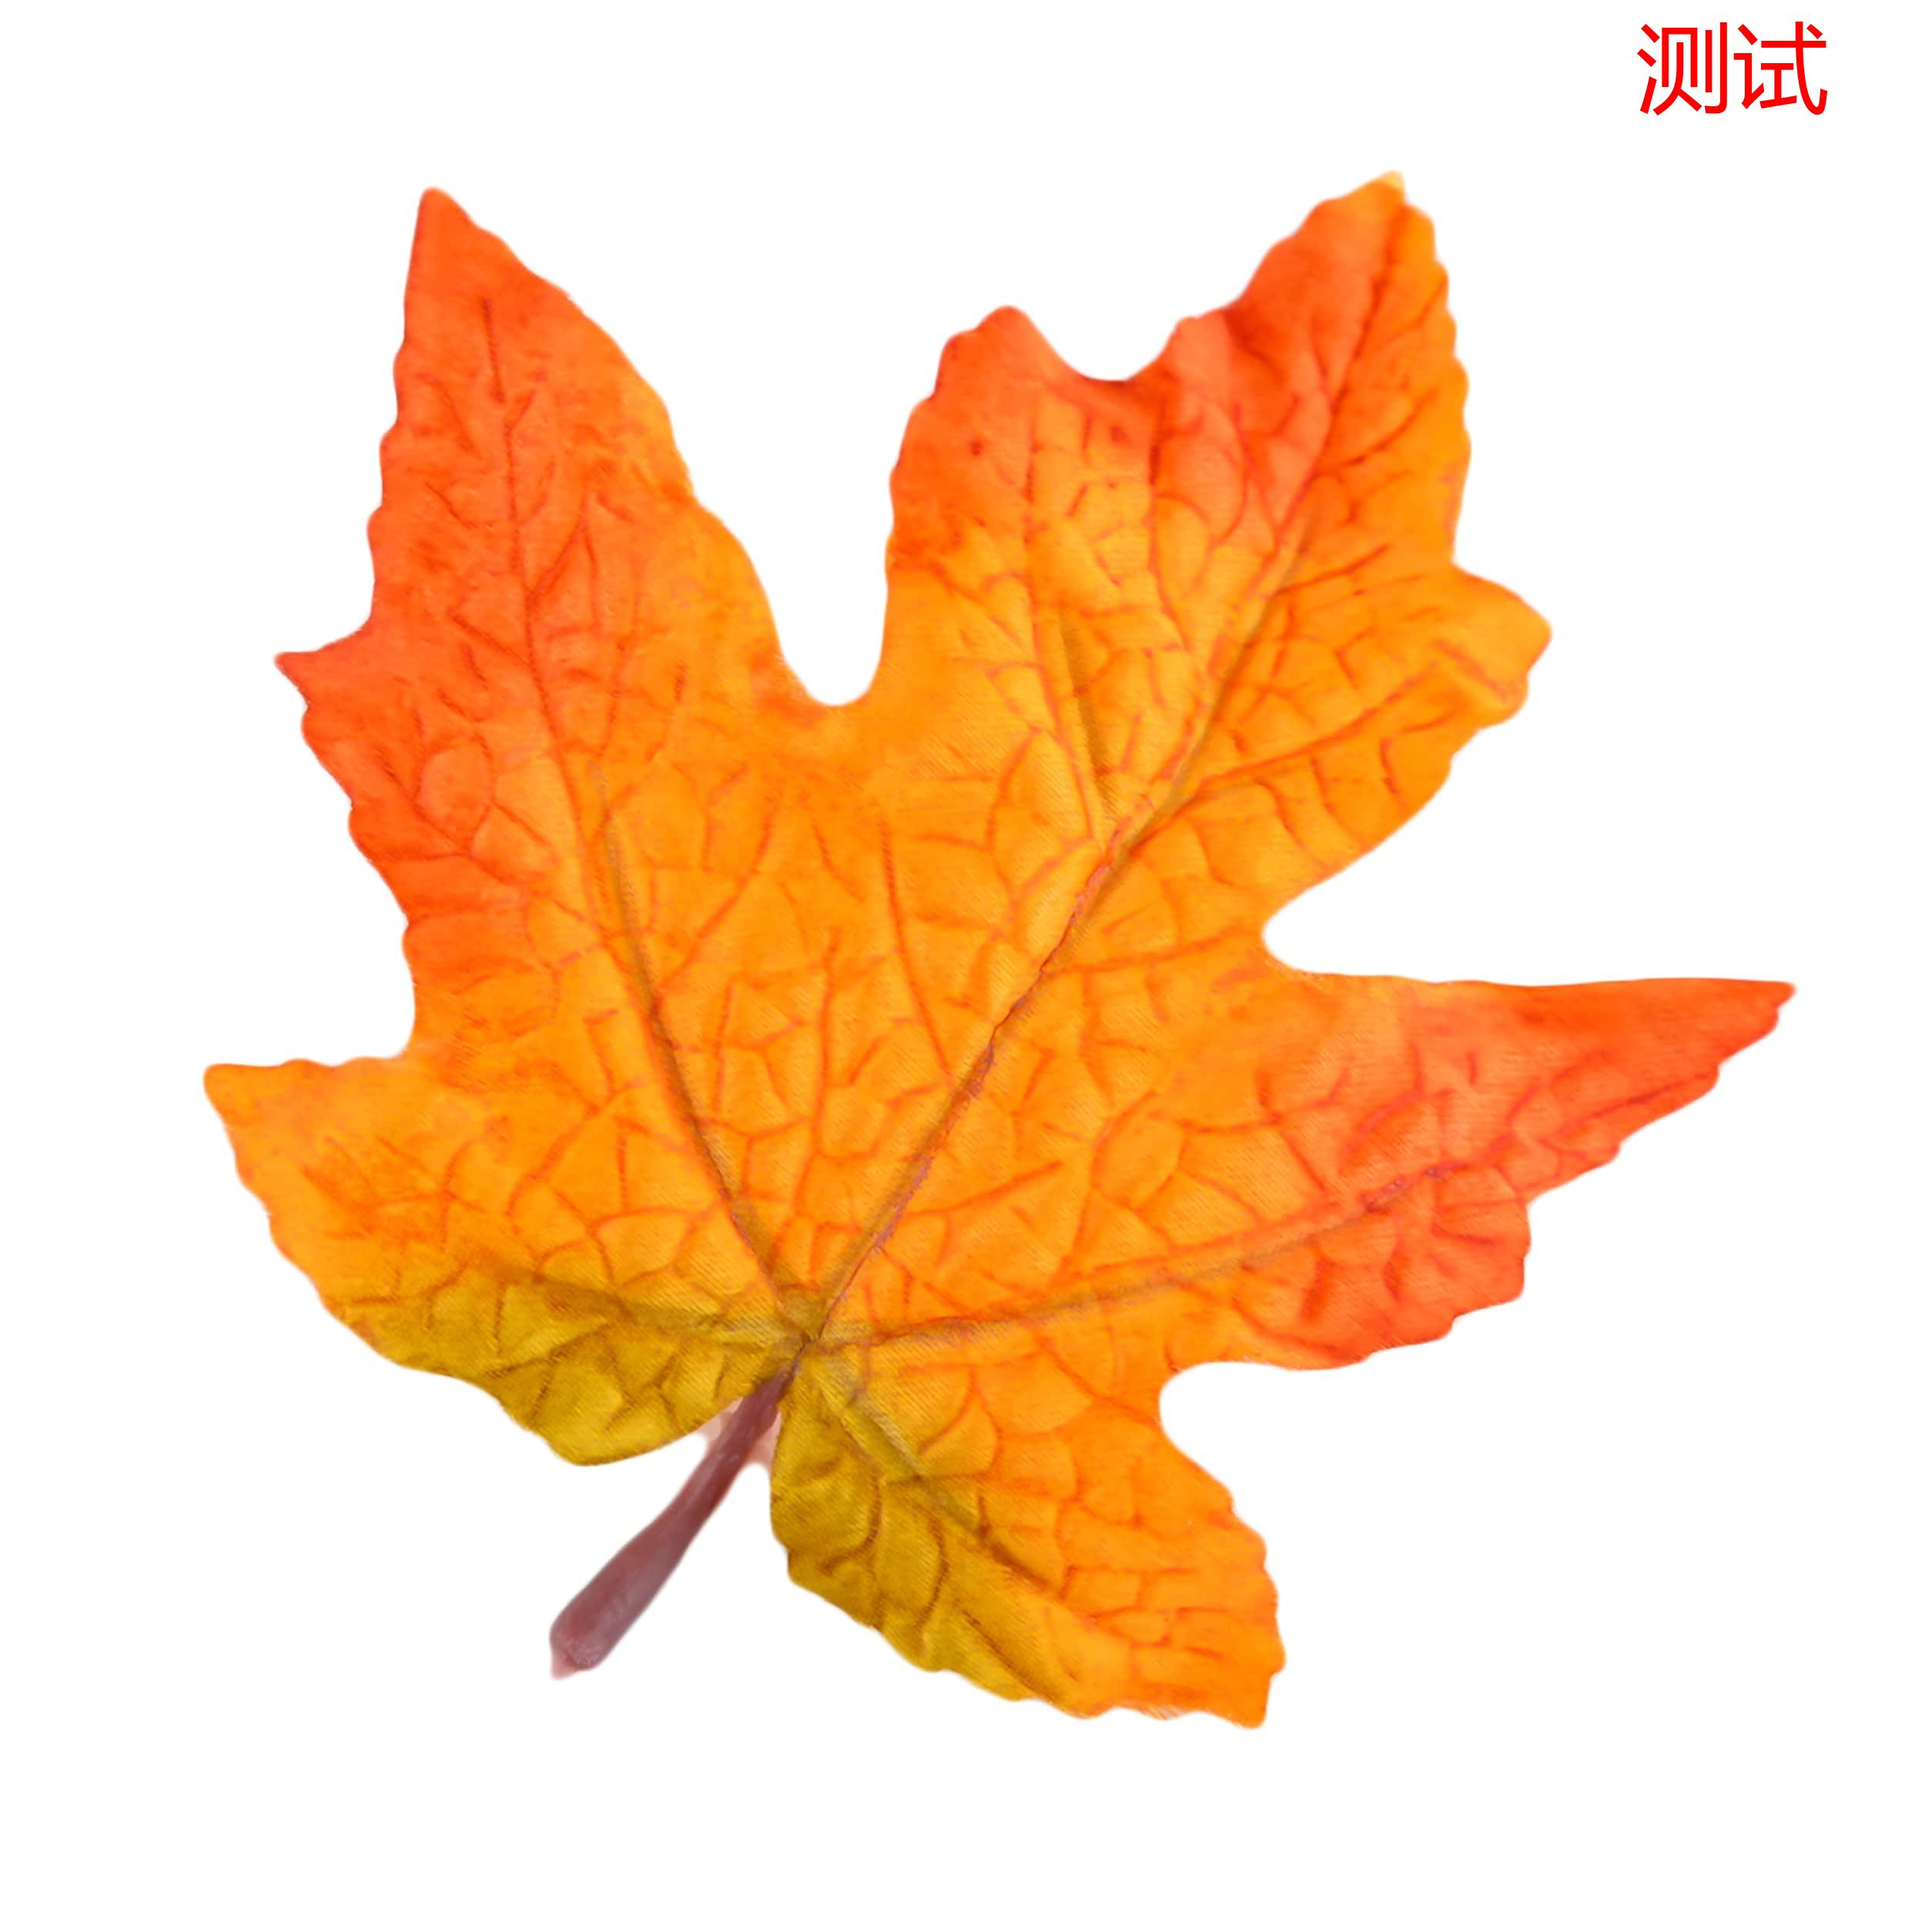
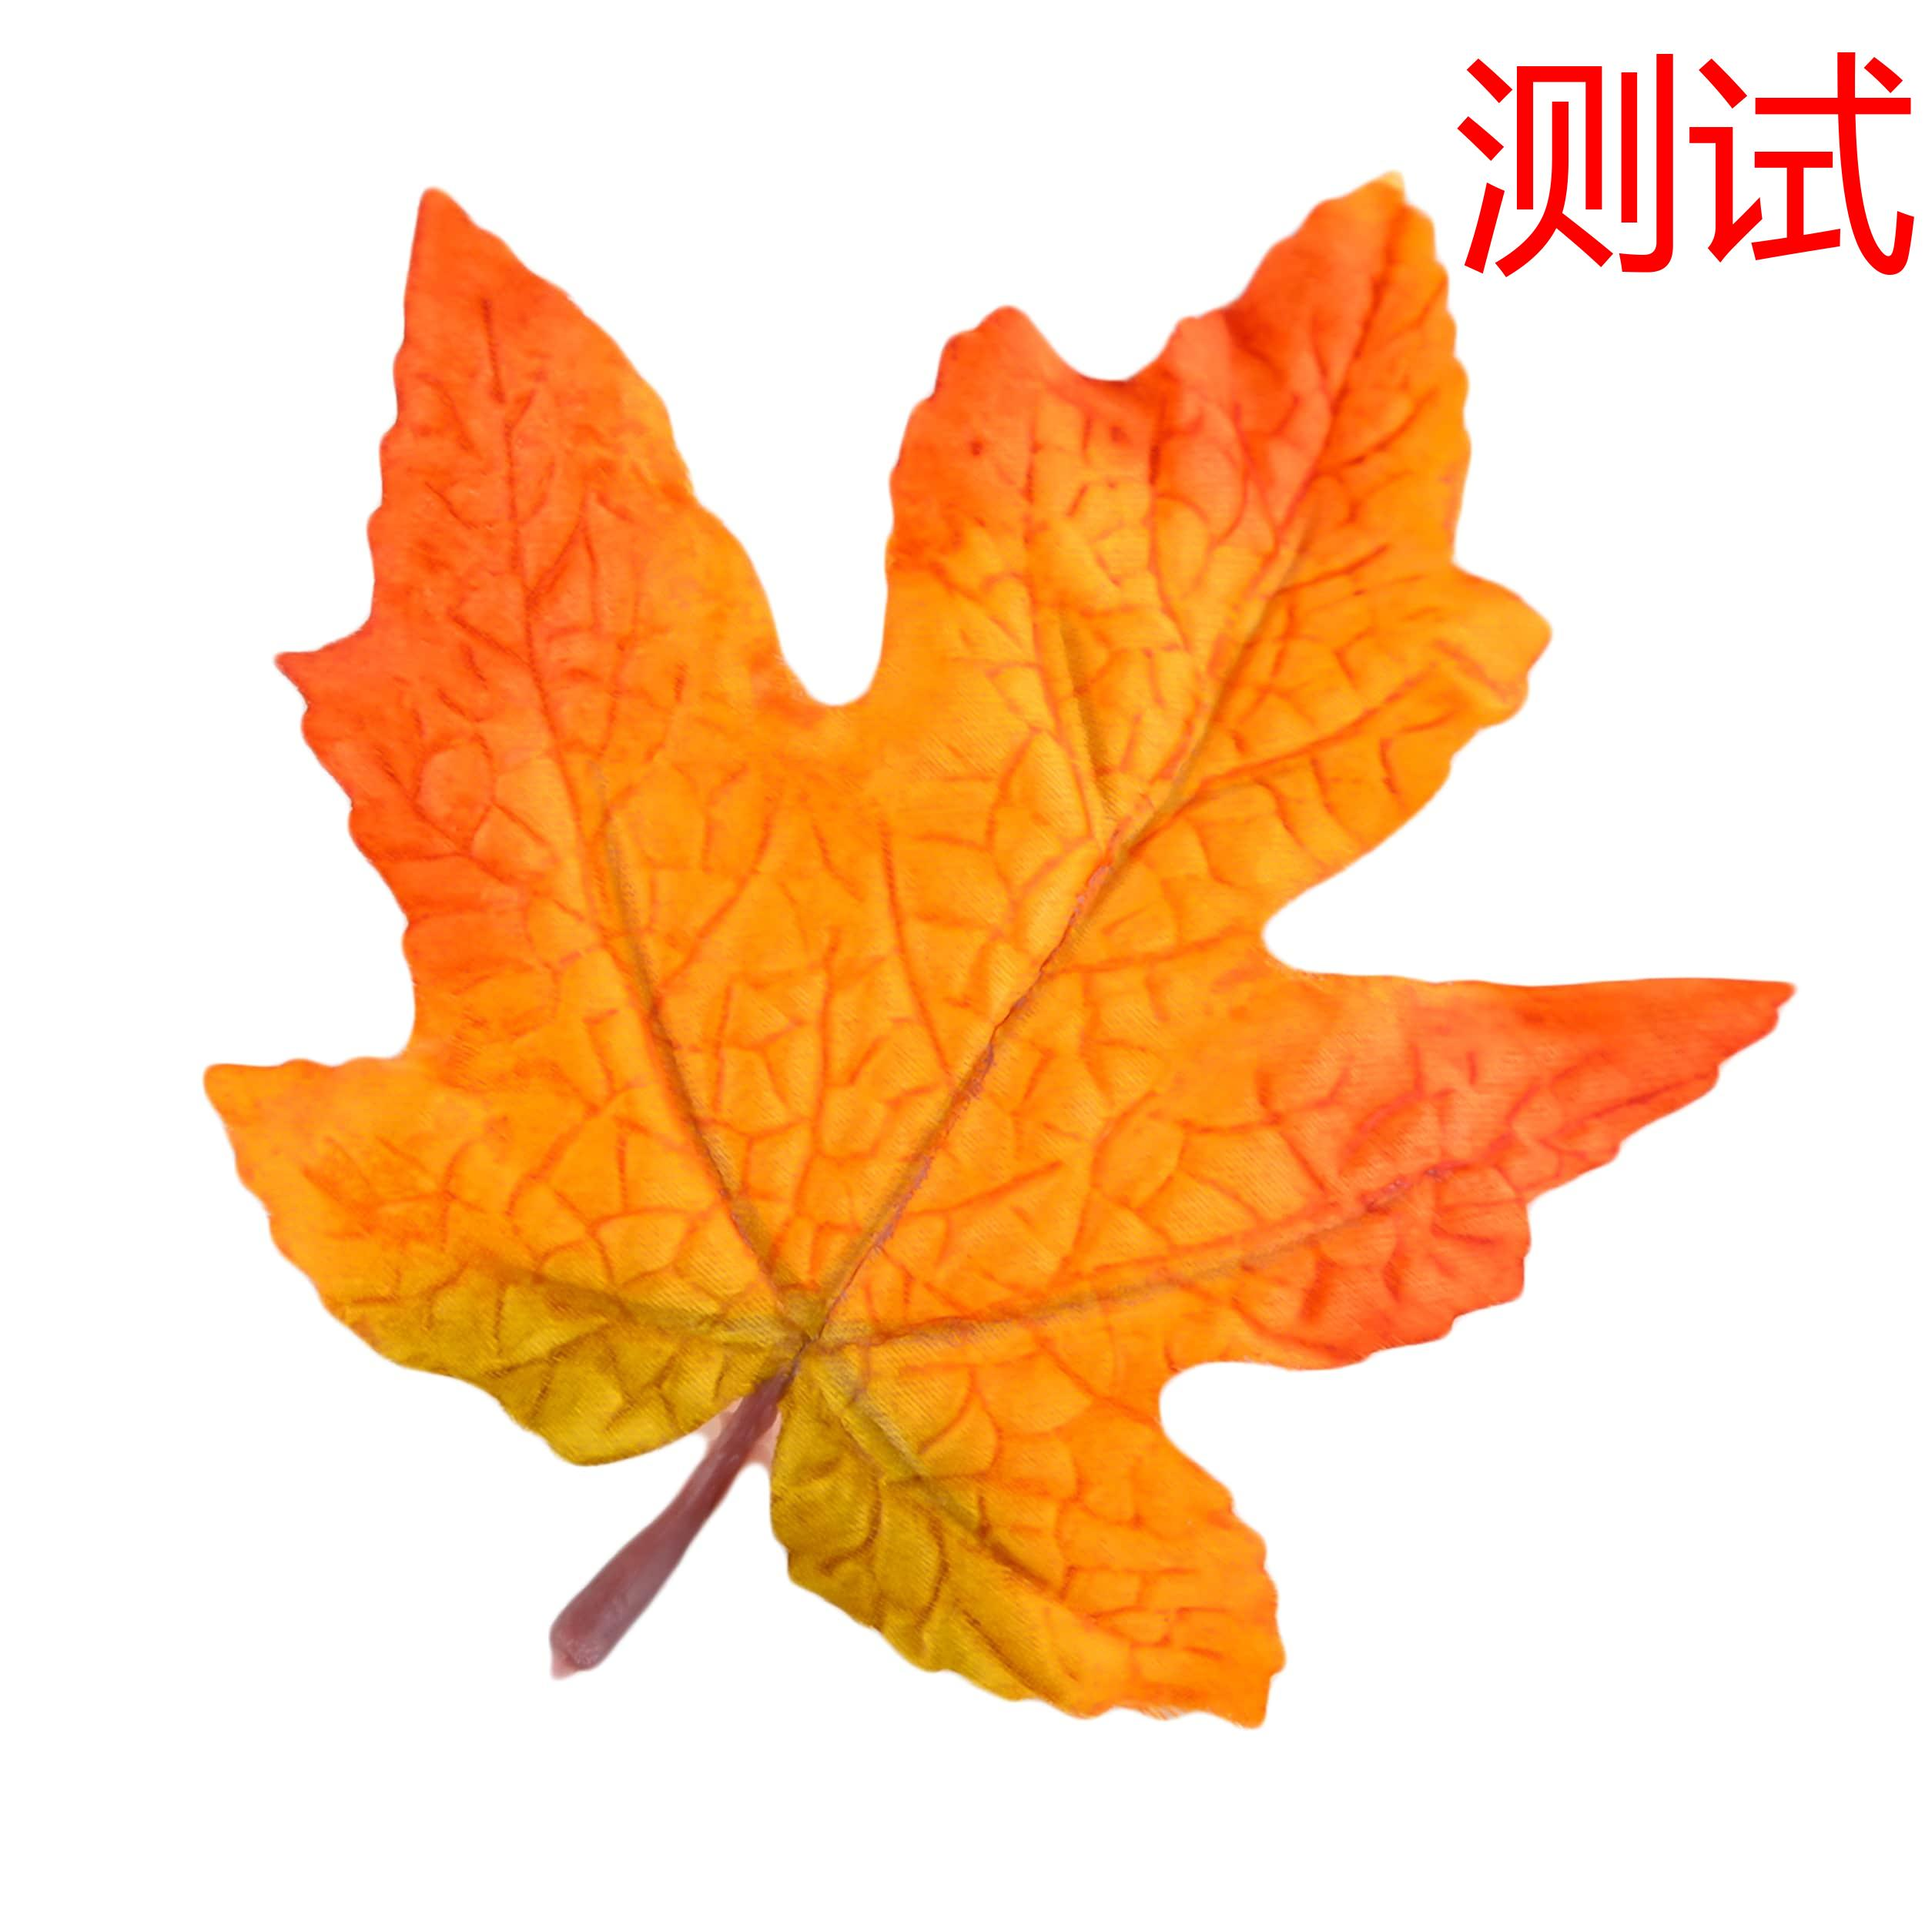
feat: demo00 添加文件格式过滤、输入字体大小

Changed region(s): [[0.7488, 0.0, 0.9984, 0.156]]

diff --git a/python_showmethecode/demo00/main.py b/python_showmethecode/demo00/main.py
@@ -16,13 +16,15 @@ from PIL import ImageDraw
 # 4、在终端提示任务完成和是否成功，成功并打开结果文件夹
 
 # 读取输入的文字
-text = input("请输入需要展示的数字\n")
+text = input("请输入需要展示的文字:\n")
+input_font_size = input("请输入文字大小（按照百分比计算）:\n")
 
 # 更方便获取当前路径的方式: sys.path[0]
 base_path = os.path.dirname(__file__)
 input_path = f"{base_path}/input/"
 files = os.listdir(input_path)
 
+support_extensions = ("jpg", "jpeg", "png", "webp")
 
 # https://www.programiz.com/python-programming/examples/file-name-from-file-path#google_vignette
 # 从路径中获取文件名称
@@ -30,7 +32,16 @@ files = os.listdir(input_path)
 # print("有后缀", os.path.basename(file_name))
 
 
-def handle_img(file_name, text):
+def format_font_size(font_size):
+    try:
+        font_size = float(font_size)
+        return font_size / 100
+    except ValueError:
+        print(f"\033[91m输入的文字大小有误，按照5%处理\033[0m")
+        return 0.05
+
+
+def handle_img(file_name, text, fwidth):
     if file_name == "":
         raise ValueError("图片路径为空！")
     elif text == "":
@@ -38,17 +49,21 @@ def handle_img(file_name, text):
     else:
         # f 这种写法，是python中支持的字符串模板，通过f表示，字符串里嵌入了变量，变量用{}包裹
         full_file_name = f"{input_path}{file_name}"
-        extension = sys.path[1]
-        print("extension", extension)
+
+        # 判断图片类型是否支持
+        extension = os.path.splitext(file_name)[1].replace(".", "")
+        if extension not in support_extensions:
+            raise TypeError(f"{file_name} 是不支持的图片类型！")
+
         # 打开图片
         img = Image.open(full_file_name)
         w, h = img.size
-        font_size = max(w * 0.05, 18)
-        text_offset_left = int(len(text)) * font_size + font_size
+        font_size = max(w * fwidth, 18)
+        text_offset_left = int(len(text)) * font_size + 10
 
         # 设置字体大小和位置
         font = ImageFont.truetype(f"{base_path}/font/msyh.ttc", font_size)
-        print("尺寸:", w, h)
+        print(f"{file_name} 图片尺寸:", w, h)
         # 开始重绘图片
         draw = ImageDraw.Draw(img)
         # 第一个参数，表示文字的落地位置。x、y坐标构成的元组
@@ -56,12 +71,18 @@ def handle_img(file_name, text):
         img.save(f"{base_path}/output/{file_name}")
 
 
+# 统一处理字体大小
+fwidth = format_font_size(input_font_size)
+
 for file_name in files:
-    handle_img(file_name, text)
+    try:
+        handle_img(file_name, text, fwidth)
+    except TypeError as e:
+        print(f"\033[91m{e}\033[0m")
 
 # https://www.educative.io/answers/what-is-the-oslchflags-method-in-python
 try:
     webbrowser.open(f"file://{base_path}/output/")
-    print("处理完成")
+    print("\033[92m处理完成\033[0m")
 except OSError as e:
-    print("图片处理完成，但打开文件夹遇到错误: ", e)
+    print(f"\033[91m图片处理完成，但打开文件夹遇到错误: {e}\033[0m")

diff --git a/python_showmethecode/demo00/readme.md b/python_showmethecode/demo00/readme.md
@@ -4,7 +4,9 @@
 
 将你的 QQ 头像（或者微博头像）右上角加上红色的数字，类似于微信未读信息数量那种提示效果。类似于图中效果
 
-![头像](../images/000_demo.png)
+<img src='../images/000_demo.png' alt='头像' style='width: 10%; height: auto; text-align: center; margin-left: 45%;' />
+
+**<p align='center'>头像</p>**
 
 # 运行
 
@@ -16,12 +18,13 @@
 python main.py
 ```
 
-before:  
-![处理前](demo.jpg)  
-handling:
-![处理中](result.gif)  
-after:  
-![处理后](result.jpg)
+<img src='./input/demo.png' alt='处理前' style='width: 30%; height: auto; text-align: center; margin-left: 35%;' />
+
+**<p align='center'>处理前</p>**
+
+<img src='./output/demo.png' alt='处理后' style='width: 30%; height: auto; text-align: center; margin-left: 35%;' />
+
+**<p align='center'>处理后</p>**
 
 # 参考
 
